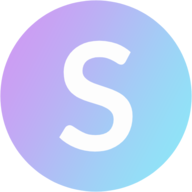
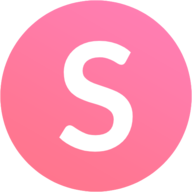
change color

diff --git a/src/styles/variables/colors.scss b/src/styles/variables/colors.scss
@@ -1,8 +1,7 @@
-
 $color-white: #fff;
 $color-dark-grey: #4a5568;
 $color-light-grey: #cbd5e0;
-$color-accent: hsla(247, 77%, 83%, .76);
-$color-border-accent: #b1bcf4;
+$color-accent: #ff7eb3;
+$color-border-accent: #ff7eb3;
 
-$primary-gradient: radial-gradient(circle at 12.8% 28%, rgb(206, 155, 243) 0%, rgb(142, 229, 247) 90%);
+$primary-gradient: linear-gradient(to right, #ff758c 0%, #ff7eb3 100%);

diff --git a/src/pages/contacto.tsx b/src/pages/contacto.tsx
@@ -8,7 +8,7 @@ const Contact = (): JSX.Element => {
   return (
     <div className="wrapper contact-page">
       <h1 className="page-title tracking-in-expand">Contacto</h1>
-      <RoundedImage image="/img/portfolio-logo" size="large" />
+      <RoundedImage image="/img/logo-portfolio" size="large" />
 
       <h2>Suso Mejías</h2>
 

diff --git a/src/pages/_app.tsx b/src/pages/_app.tsx
@@ -38,7 +38,7 @@ const App = (props: AppProps): JSX.Element => {
     <>
       <HeadComponent />
       <LoadingBar
-        color="#b1bcf4"
+        color="#ff7eb3"
         height={4}
         progress={progress}
         onLoaderFinished={() => setProgress(0)}

diff --git a/src/styles/components/ButtonBadge/style.scss b/src/styles/components/ButtonBadge/style.scss
@@ -8,7 +8,7 @@
   border-radius: $border-radius-default;
   box-shadow: 0 4px 6px -1px rgba(0, 0, 0, .1), 0 2px 4px -1px rgba(0, 0, 0, .06);
   font-weight: 800;
-  font-size: 1rem;
+  font-size: 1.15rem;
 
   a {
     text-decoration: none;

diff --git a/src/styles/components/NavBar/NavButton/style.scss b/src/styles/components/NavBar/NavButton/style.scss
@@ -47,5 +47,7 @@
     color: #fff;
     padding: .55rem;
     border-radius: $border-radius-default;
+    box-shadow: 0 4px 6px -1px rgba(0, 0, 0, .1), 0 2px 4px -1px rgba(0, 0, 0, .06);
+    font-weight: 600;
   }
 }
